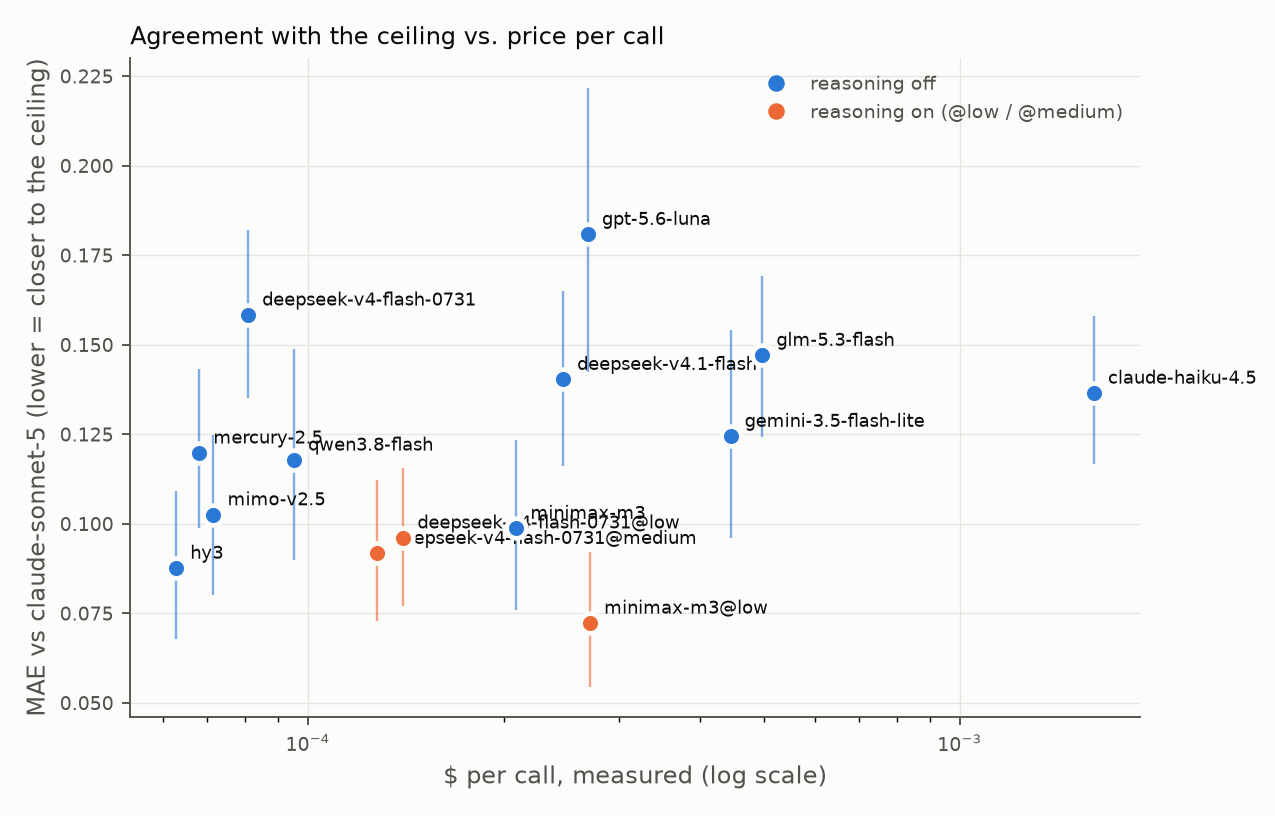
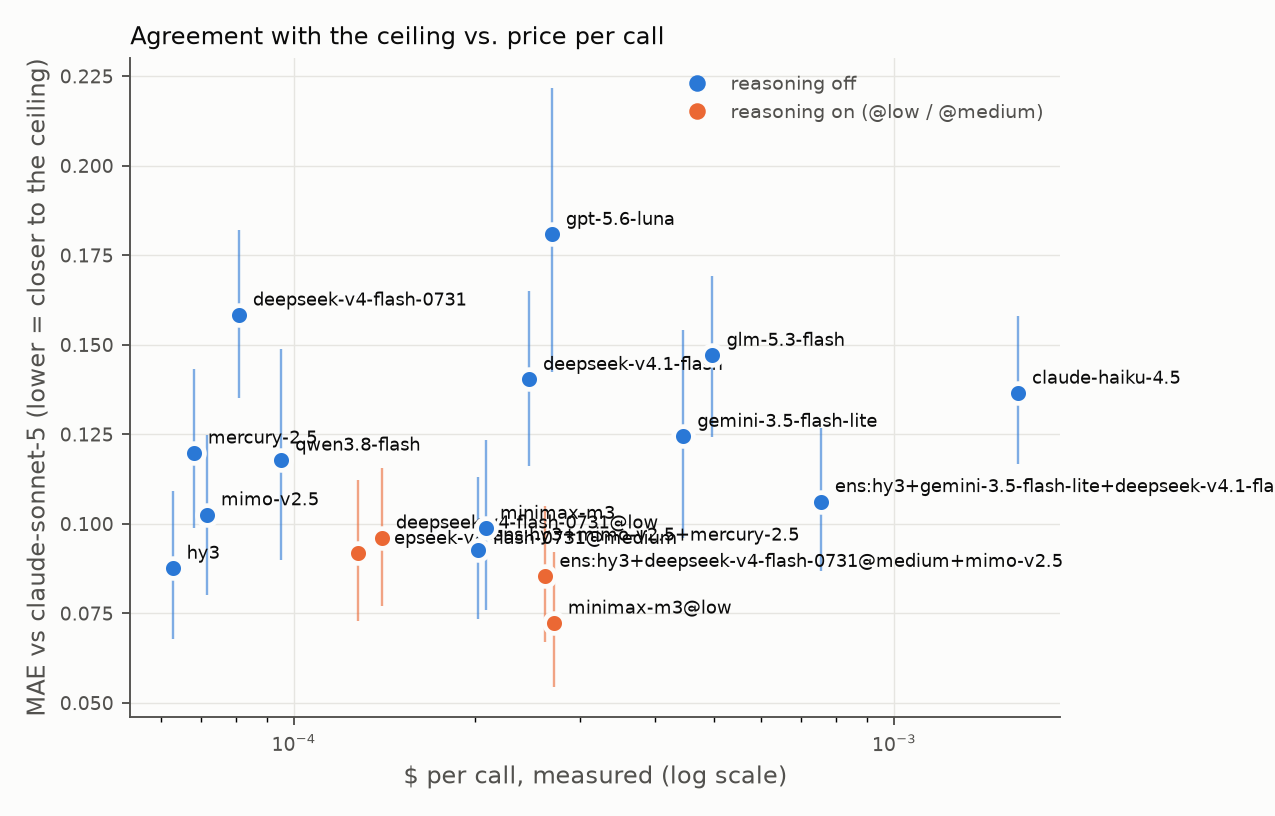
analysis: pre-registered median-of-3 ensemble rows as derived challengers
- ensembles.py: per preprint the median of three components' mean scores; cost
  summed, latency = slowest component, unscored wherever any component failed.
  Three combinations fixed by rule before scoring (best-MAE + steadiest + best
  top-10; three cheapest; three lowest-MAE from distinct labs); no search.
- analyze.py: derived flag in the CSV; derived rows never the paired-test
  reference; UNSCALED (baseline) keeps NaN MAE, ensembles keep theirs.
- report.py: derived labels italic, n/a wherever a value is NaN.
- README: Ensembles section with the post-hoc caveat; tables regenerated
  (ens hy3+gemini+deepseek-v4.1 matches 9/10 of the ceiling's top ten).

diff --git a/ensembles.py b/ensembles.py
@@ -1,0 +1,80 @@
+"""Synthetic ensemble rows: the median of k cheap models' scores, as a derived challenger.
+
+Compound judges are the thesis of frameworks like haizelabs/verdict ("instead of a single LLM
+call ... aggregation"). Here the cheapest version: per preprint, the median of each component's
+mean score; cost is the components' summed cost, latency the slowest component, and the row is
+unscored wherever any component failed (all-or-nothing coverage). Only the pre-registered
+combinations below are reported. They were chosen by the rules in the comments BEFORE any
+ensemble was scored; there was no search over combinations, because a search over the same 90
+preprints the table is scored on would be optimistic by construction.
+"""
+
+from __future__ import annotations
+
+import statistics as st
+from collections import defaultdict
+
+ENSEMBLES = [
+    # best MAE + steadiest sigma + best top-10 among usable single models
+    ("tencent/hy3", "google/gemini-3.5-flash-lite", "deepseek/deepseek-v4.1-flash"),
+    # the three cheapest usable models by $/call
+    ("tencent/hy3", "xiaomi/mimo-v2.5", "inception/mercury-2.5"),
+    # the three lowest-MAE usable models from three different labs
+    ("tencent/hy3", "deepseek/deepseek-v4-flash-0731@medium", "xiaomi/mimo-v2.5"),
+]
+
+
+def label(components: tuple[str, ...]) -> str:
+    return "ens:" + "+".join(c.split("/", 1)[-1] for c in components)
+
+
+def _per_item(rows: list[dict], components: tuple[str, ...]) -> tuple[dict, dict]:
+    """({doi: {label: {"score": mean | None, "cost": mean, "latency": mean}}}, {doi: meta})."""
+    runs: dict = defaultdict(lambda: defaultdict(list))
+    meta = {}
+    for r in rows:
+        if r["label"] in components:
+            runs[r["doi"]][r["label"]].append(r)
+            meta[r["doi"]] = {k: r.get(k) for k in ("lane", "title", "category")}
+    stats = {}
+    for doi, by_label in runs.items():
+        stats[doi] = {}
+        for lab, rs in by_label.items():
+            scores = [x["fit_score"] for x in rs if x.get("fit_score") is not None]
+            stats[doi][lab] = {
+                "score": st.mean(scores) if scores else None,
+                "cost": st.mean(x.get("cost_usd") or 0.0 for x in rs),
+                "latency": st.mean(x.get("latency_s") or 0.0 for x in rs),
+            }
+    return stats, meta
+
+
+def _row(doi: str, parts: list[dict], components: tuple[str, ...]) -> dict:
+    scores = [p["score"] for p in parts]
+    score = st.median(scores) if all(s is not None for s in scores) else None
+    return {
+        "label": label(components),
+        "doi": doi,
+        "run_idx": 0,
+        "fit_score": score,
+        "cost_usd": sum(p["cost"] for p in parts),
+        "latency_s": max(p["latency"] for p in parts),
+        "strict_json": score is not None,
+    }
+
+
+def rows(rows: list[dict], components: tuple[str, ...]) -> list[dict]:
+    """One synthetic call per preprint that every component saw."""
+    stats, meta = _per_item(rows, components)
+    out = []
+    for doi, by_label in stats.items():
+        parts = [by_label[c] for c in components if c in by_label]
+        if len(parts) == len(components):
+            out.append({**_row(doi, parts, components), **meta[doi]})
+    return out
+
+
+def all_rows(rows_in: list[dict]) -> list[dict]:
+    """Rows for every pre-registered ensemble whose components all appear in the data."""
+    present = {r["label"] for r in rows_in}
+    return [r for combo in ENSEMBLES if set(combo) <= present for r in rows(rows_in, combo)]

diff --git a/analyze.py b/analyze.py
@@ -16,6 +16,7 @@ Metrics, per model config:
               distribution can hide from MAE.
   latency_s   mean wall-clock seconds per call
   cost_usd    mean OpenRouter-reported cost per call that returned
+  derived     True for rows computed from other rows (baseline:, ens:), never the reference
 
 --top-disagreement N also writes results/disagreement.md (see disagreement.py).
 """
@@ -48,11 +49,13 @@ COLUMNS = (
     "latency_s",
     "cost_usd",
     "n_calls",
+    "derived",
 )
 VIOLATION_AT = 0.5
 SHORTLIST = 10
 USABLE_COV = 99.0
 DERIVED = ("baseline:", "ens:")  # rows computed from other rows, not API calls
+UNSCALED = ("baseline:",)  # not a fit score: MAE against the ceiling is meaningless
 
 
 def load_rows(results: Path, preprints: Path) -> list[dict]:
@@ -112,9 +115,9 @@ def _one(by_item: dict, ceiling_means: dict) -> dict:
 
 
 def best_usable(m: dict, ceiling: str) -> str:
-    """Reference for the paired test: lowest MAE among non-ceiling labels at >= USABLE_COV
-    coverage; falls back to the lowest MAE overall, then to the ceiling itself."""
-    cands = [k for k, r in m.items() if k != ceiling and not math.isnan(r["mae"])]
+    """Reference for the paired test: lowest MAE among single (non-derived, non-ceiling) models
+    at >= USABLE_COV coverage; falls back to the lowest MAE overall, then to the ceiling."""
+    cands = [k for k, r in m.items() if k != ceiling and not (math.isnan(r["mae"]) or r["derived"])]
     usable = [k for k in cands if m[k]["cov"] >= USABLE_COV] or cands or [ceiling]
     return min(usable, key=lambda k: m[k]["mae"])
 
@@ -126,8 +129,10 @@ def metrics(rows: list[dict], ceiling: str = CEILING) -> dict[str, dict]:
         by_label[r["label"]][r["doi"]].append(r)
     ceiling_means = _item_means(by_label[ceiling])
     m = {label: _one(items, ceiling_means) for label, items in by_label.items()}
-    for k in [k for k in m if k.startswith(DERIVED)]:  # different scale: MAE is not comparable
-        m[k].update(mae=math.nan, mae_lo=math.nan, mae_hi=math.nan)
+    for k, r in m.items():
+        r["derived"] = k.startswith(DERIVED)
+        if k.startswith(UNSCALED):
+            r.update(mae=math.nan, mae_lo=math.nan, mae_hi=math.nan)
     ref = m[best_usable(m, ceiling)]["_errs"]
     for r in m.values():
         r["mae_diff_p"] = bootstrap.diff_p(r.pop("_errs"), ref)
@@ -148,11 +153,13 @@ def _args() -> argparse.Namespace:
 def main() -> None:  # pragma: no cover
     import baseline
     import disagreement
+    import ensembles
     import figures
     import report
 
     a = _args()
     rows = load_rows(a.results, a.preprints) + baseline.rows(a.preprints, a.profile)
+    rows += ensembles.all_rows(rows)
     m = metrics(rows, a.ceiling)
     report.write_tables(m, a.out)
     figures.plot_all(m, a.out, a.ceiling)

diff --git a/tests/test_ensembles.py b/tests/test_ensembles.py
@@ -1,0 +1,75 @@
+"""Pins the ensemble rows: median of component means, summed cost, max latency, all-or-nothing."""
+
+import pytest
+
+import analyze
+import ensembles
+import report
+
+CEILING = "ceil"
+COMBO = ("lab/a", "lab/b", "lab/c@low")
+
+
+def _row(label, doi, run, score, cost, lat):
+    return {
+        "label": label,
+        "doi": doi,
+        "run_idx": run,
+        "fit_score": score,
+        "cost_usd": cost,
+        "latency_s": lat,
+        "lane": "in",
+        "title": f"T{doi}",
+        "category": "genomics",
+    }
+
+
+def _rows():
+    return [
+        _row(CEILING, "x", 0, 0.5, 0.01, 1.0),
+        _row(CEILING, "y", 0, 0.9, 0.01, 1.0),
+        # item x: component means 0.2, 0.6, 0.9 -> median 0.6; costs 1e-4 + 2e-4 + 3e-4
+        _row("lab/a", "x", 0, 0.1, 1e-4, 1.0),
+        _row("lab/a", "x", 1, 0.3, 1e-4, 3.0),
+        _row("lab/b", "x", 0, 0.6, 2e-4, 2.0),
+        _row("lab/c@low", "x", 0, 0.9, 3e-4, 5.0),
+        # item y: lab/b never scored -> the ensemble has no score either
+        _row("lab/a", "y", 0, 0.8, 1e-4, 1.0),
+        _row("lab/b", "y", 0, None, 2e-4, 9.0),
+        _row("lab/c@low", "y", 0, 0.7, 3e-4, 1.0),
+    ]
+
+
+def test_label_uses_short_names():
+    assert ensembles.label(COMBO) == "ens:a+b+c@low"
+
+
+def test_rows_take_median_sum_cost_and_max_latency():
+    out = {r["doi"]: r for r in ensembles.rows(_rows(), COMBO)}
+    x, y = out["x"], out["y"]
+    assert x["label"] == "ens:a+b+c@low" and x["lane"] == "in" and x["title"] == "Tx"
+    assert x["fit_score"] == pytest.approx(0.6)
+    assert x["cost_usd"] == pytest.approx(6e-4)
+    assert x["latency_s"] == 5.0  # max over components of their per-item mean (lab/a = 2.0)
+    assert y["fit_score"] is None and y["cost_usd"] == pytest.approx(6e-4)
+
+
+def test_all_rows_skips_combos_with_missing_components(monkeypatch):
+    monkeypatch.setattr(ensembles, "ENSEMBLES", [COMBO, ("lab/a", "nope/z", "lab/b")])
+    out = ensembles.all_rows(_rows())
+    assert {r["label"] for r in out} == {"ens:a+b+c@low"} and len(out) == 2
+
+
+def test_metrics_flag_derived_and_never_pick_it_as_reference(tmp_path, monkeypatch):
+    monkeypatch.setattr(ensembles, "ENSEMBLES", [COMBO])
+    rows = _rows()
+    rows += ensembles.all_rows(rows)
+    m = analyze.metrics(rows, CEILING)
+    e = m["ens:a+b+c@low"]
+    assert e["derived"] is True and m["lab/a"]["derived"] is False
+    assert e["cov"] == 50.0 and e["mae"] == pytest.approx(0.1)  # |0.6 - 0.5| on the one item
+    assert analyze.best_usable(m, CEILING) != "ens:a+b+c@low"
+    report.write_tables(m, tmp_path)
+    assert ",derived" in (tmp_path / "results.csv").read_text().splitlines()[0]
+    md = (tmp_path / "results.md").read_text()
+    assert "| _ens:a+b+c@low_ |" in md and "| lab/a |" in md

diff --git a/report.py b/report.py
@@ -8,7 +8,7 @@ import statistics as st
 from collections import defaultdict
 from pathlib import Path
 
-from analyze import COLUMNS, DERIVED, SHORTLIST, VIOLATION_AT
+from analyze import COLUMNS, SHORTLIST, VIOLATION_AT
 
 MARK_START, MARK_END = "<!-- RESULTS:START -->", "<!-- RESULTS:END -->"
 
@@ -27,8 +27,8 @@ def _num(v: float, fmt: str) -> str:
     return "n/a" if math.isnan(v) else format(v, fmt)
 
 
-def _mae_cell(k: str, r: dict) -> str:
-    if k.startswith(DERIVED):
+def _mae_cell(r: dict) -> str:
+    if math.isnan(r["mae"]):
         return "n/a | n/a"
     return f"{r['mae']:.3f} [{r['mae_lo']:.3f}, {r['mae_hi']:.3f}] | {r['mae_diff_p']:.2f}"
 
@@ -41,8 +41,9 @@ def write_md(m: dict, path: Path) -> None:
     ]
     for k, r in m.items():
         md.append(
-            f"| {k} | {r['cov']:.1f} | {r['strict']:.1f} | {r['violations']} "
-            f"| {_num(r['sigma'], '.3f')} | {_mae_cell(k, r)} | {r['spearman']:.2f} "
+            f"| {f'_{k}_' if r['derived'] else k} | {r['cov']:.1f} | {r['strict']:.1f} "
+            f"| {r['violations']} | {_num(r['sigma'], '.3f')} | {_mae_cell(r)} "
+            f"| {r['spearman']:.2f} "
             f"| {r['top10']}/{SHORTLIST} | {r['latency_s']:.2f} | {r['cost_usd']:.5f} |"
         )
     path.write_text("\n".join(md) + "\n")

diff --git a/results/disagreement.md b/results/disagreement.md
@@ -1,33 +1,33 @@
-# Where the 13 usable models disagree
+# Where the 16 usable models disagree
 
-Population std dev of the per-model mean score, over the 13 usable models (>= 99% coverage, ceiling excluded). `ceiling` is the ceiling's own mean.
+Population std dev of the per-model mean score, over the 16 usable models (>= 99% coverage, ceiling excluded). `ceiling` is the ceiling's own mean.
 
 ## Top 10 most disputed
 
 | # | sd | ceiling | min (model) | max (model) | category / lane | title | doi |
 |--:|--:|--:|---|---|---|---|---|
-| 1 | 0.228 | 0.10 | 0.07 (tencent/hy3) | 1.00 (baseline:tfidf) | plant biology / off | Barley genetic architecture conditionally impacts recruitment of rhizosphere microorganisms and crop performance has been submitted | 10.1101/2024.11.21.624704 |
-| 2 | 0.194 | 0.63 | 0.22 (tencent/hy3) | 0.93 (openai/gpt-5.6-luna) | genomics / in | Haplotype-Resolved Long-Read Sequencing in Hundreds of Diverse Brains Identifies Structural Variant Impacts on Expression and Allele-Specific Methylation | 10.1101/2024.12.16.628723 |
-| 3 | 0.177 | 0.43 | 0.27 (deepseek/deepseek-v4-flash-0731@medium) | 0.87 (openai/gpt-5.6-luna) | genomics / in | Telomere-to-Telomere Accurate and Gapless Korean Standard Reference Genome | 10.1101/2025.11.17.688257 |
-| 4 | 0.172 | 0.62 | 0.23 (baseline:tfidf) | 0.91 (openai/gpt-5.6-luna) | microbiology / in | The Updateable Human Virome Database and toolkit: A novel framework for human virome analysis | 10.64898/2026.05.01.722327 |
-| 5 | 0.171 | 0.15 | 0.12 (baseline:tfidf) | 0.71 (google/gemini-3.5-flash-lite) | genomics / in | Mapping the Phenotypic Landscape of Beta-lactam Resistance in Streptococcus pneumoniae | 10.1101/2025.09.12.675231 |
-| 6 | 0.169 | 0.25 | 0.25 (tencent/hy3) | 0.84 (openai/gpt-5.6-luna) | genomics / in | Spatial mapping of cellular and molecular plasticity in the maternal and postpartum mouse brain | 10.64898/2026.01.03.697464 |
-| 7 | 0.169 | 0.27 | 0.28 (inception/mercury-2.5) | 0.88 (openai/gpt-5.6-luna) | systems biology / in | Analytical resolution governs cross-laboratory and cross-species concordance in murine cardiometabolic HFpEF transcriptomics | 10.64898/2026.04.30.721824 |
-| 8 | 0.167 | 0.25 | 0.22 (baseline:tfidf) | 0.80 (google/gemini-3.5-flash-lite) | systems biology / in | Improved inference of multiscale sequence statistics in generative protein models | 10.64898/2026.04.06.716859 |
-| 9 | 0.166 | 0.37 | 0.17 (deepseek/deepseek-v4-flash-0731@low) | 0.82 (google/gemini-3.5-flash-lite) | genomics / in | Genetic association data are broadly consistent with stabilizing selection shaping human common diseases and traits | 10.1101/2024.06.19.599789 |
-| 10 | 0.163 | 0.10 | 0.13 (google/gemini-3.5-flash-lite) | 0.75 (qwen/qwen3.8-flash) | bioinformatics / in | Real-time repository-scale spectral search and global molecular networking with HNSW-MS | 10.64898/2026.06.02.729602 |
+| 1 | 0.211 | 0.10 | 0.07 (tencent/hy3) | 1.00 (baseline:tfidf) | plant biology / off | Barley genetic architecture conditionally impacts recruitment of rhizosphere microorganisms and crop performance has bee | 10.1101/2024.11.21.624704 |
+| 2 | 0.195 | 0.63 | 0.22 (tencent/hy3) | 0.93 (openai/gpt-5.6-luna) | genomics / in | Haplotype-Resolved Long-Read Sequencing in Hundreds of Diverse Brains Identifies Structural Variant Impacts on Expressio | 10.1101/2024.12.16.628723 |
+| 3 | 0.168 | 0.43 | 0.27 (deepseek/deepseek-v4-flash-0731@medium) | 0.87 (openai/gpt-5.6-luna) | genomics / in | Telomere-to-Telomere Accurate and Gapless Korean Standard Reference Genome | 10.1101/2025.11.17.688257 |
+| 4 | 0.162 | 0.25 | 0.25 (tencent/hy3) | 0.84 (openai/gpt-5.6-luna) | genomics / in | Spatial mapping of cellular and molecular plasticity in the maternal and postpartum mouse brain | 10.64898/2026.01.03.697464 |
+| 5 | 0.161 | 0.27 | 0.28 (inception/mercury-2.5) | 0.88 (openai/gpt-5.6-luna) | systems biology / in | Analytical resolution governs cross-laboratory and cross-species concordance in murine cardiometabolic HFpEF transcripto | 10.64898/2026.04.30.721824 |
+| 6 | 0.159 | 0.62 | 0.23 (baseline:tfidf) | 0.91 (openai/gpt-5.6-luna) | microbiology / in | The Updateable Human Virome Database and toolkit: A novel framework for human virome analysis | 10.64898/2026.05.01.722327 |
+| 7 | 0.157 | 0.10 | 0.13 (google/gemini-3.5-flash-lite) | 0.75 (qwen/qwen3.8-flash) | bioinformatics / in | Real-time repository-scale spectral search and global molecular networking with HNSW-MS | 10.64898/2026.06.02.729602 |
+| 8 | 0.155 | 0.15 | 0.12 (baseline:tfidf) | 0.71 (google/gemini-3.5-flash-lite) | genomics / in | Mapping the Phenotypic Landscape of Beta-lactam Resistance in Streptococcus pneumoniae | 10.1101/2025.09.12.675231 |
+| 9 | 0.153 | 0.25 | 0.22 (baseline:tfidf) | 0.80 (google/gemini-3.5-flash-lite) | systems biology / in | Improved inference of multiscale sequence statistics in generative protein models | 10.64898/2026.04.06.716859 |
+| 10 | 0.153 | 0.37 | 0.17 (deepseek/deepseek-v4-flash-0731@low) | 0.82 (google/gemini-3.5-flash-lite) | genomics / in | Genetic association data are broadly consistent with stabilizing selection shaping human common diseases and traits | 10.1101/2024.06.19.599789 |
 
 ## Top 10 most agreed
 
 | # | sd | ceiling | min (model) | max (model) | category / lane | title | doi |
 |--:|--:|--:|---|---|---|---|---|
-| 1 | 0.017 | 0.02 | 0.00 (deepseek/deepseek-v4-flash-0731@medium) | 0.05 (inception/mercury-2.5) | paleontology / off | Garamaudo bauciensis, a new freshwater Mosasauridae (Reptilia, Squamata) from the Santonian (Late Cretaceous) of Provence, southeastern France | 10.64898/2025.12.11.693649 |
-| 2 | 0.029 | 0.03 | 0.00 (baseline:tfidf) | 0.10 (inception/mercury-2.5) | animal behavior and cognition / off | Spectrograms of kent sounds from seven Ivory-billed Woodpecker expeditions show 587 Hertz as a pattern | 10.1101/2024.05.07.592969 |
-| 3 | 0.032 | 0.03 | 0.00 (google/gemini-3.5-flash-lite) | 0.11 (baseline:tfidf) | zoology / off | A Characterisation of the Invasive Lema Beetle, Lema equestris (Coleoptera: Chrysomelidae), in Hawaii | 10.64898/2026.04.28.721477 |
-| 4 | 0.035 | 0.03 | 0.00 (google/gemini-3.5-flash-lite) | 0.10 (inception/mercury-2.5) | animal behavior and cognition / off | Shifting sensitivity and signal-dependent timing in the copulatory displays of songbirds | 10.1101/2021.05.19.444794 |
-| 5 | 0.036 | 0.04 | 0.00 (tencent/hy3) | 0.15 (anthropic/claude-haiku-4.5) | systems biology / in | Diurnal rhythmicity in metabolism and salivary effector expression shapes aphid performance on host plants | 10.1101/2024.01.20.576473 |
-| 6 | 0.037 | 0.04 | 0.00 (google/gemini-3.5-flash-lite) | 0.13 (baseline:tfidf) | animal behavior and cognition / off | Reward quantity discrimination in an associative learning task in wild zebrafish (Danio rerio) | 10.1101/2022.03.17.484678 |
-| 7 | 0.037 | 0.03 | 0.00 (google/gemini-3.5-flash-lite) | 0.12 (deepseek/deepseek-v4-flash-0731@low) | zoology / off | The impact of temperature-induced vertebral anomalies on C-start swimming performance in Astyanax mexicanus (Teleostei: Characidae) | 10.64898/2026.08.06.743195 |
-| 8 | 0.039 | n/a | 0.05 (xiaomi/mimo-v2.5) | 0.18 (baseline:tfidf) | microbiology / in | Field-isolate recombinant tick-borne encephalitis viruses define reporter-stability guidelines for antiviral testing in flaviviruses | 10.64898/2026.02.23.707037 |
-| 9 | 0.039 | 0.03 | 0.00 (google/gemini-3.5-flash-lite) | 0.15 (anthropic/claude-haiku-4.5) | animal behavior and cognition / off | Serotonin signaling in the rat prefrontal cortex is required for Retrieval-Induced Forgetting | 10.1101/2025.03.05.641624 |
-| 10 | 0.041 | 0.05 | 0.07 (tencent/hy3) | 0.20 (z-ai/glm-5.3-flash) | bioinformatics / in | Generative Chemistry Platform for Small Molecules Targeting RNA: A Case Study for Chemical Optimization | 10.64898/2026.05.08.723908 |
+| 1 | 0.017 | 0.02 | 0.00 (deepseek/deepseek-v4-flash-0731@medium) | 0.05 (inception/mercury-2.5) | paleontology / off | Garamaudo bauciensis, a new freshwater Mosasauridae (Reptilia, Squamata) from the Santonian (Late Cretaceous) of Provenc | 10.64898/2025.12.11.693649 |
+| 2 | 0.028 | 0.03 | 0.00 (baseline:tfidf) | 0.10 (inception/mercury-2.5) | animal behavior and cognition / off | Spectrograms of kent sounds from seven Ivory-billed Woodpecker expeditions show 587 Hertz as a pattern | 10.1101/2024.05.07.592969 |
+| 3 | 0.029 | 0.03 | 0.00 (google/gemini-3.5-flash-lite) | 0.11 (baseline:tfidf) | zoology / off | A Characterisation of the Invasive Lema Beetle, Lema equestris (Coleoptera: Chrysomelidae), in Hawaii | 10.64898/2026.04.28.721477 |
+| 4 | 0.033 | 0.04 | 0.00 (tencent/hy3) | 0.15 (anthropic/claude-haiku-4.5) | systems biology / in | Diurnal rhythmicity in metabolism and salivary effector expression shapes aphid performance on host plants | 10.1101/2024.01.20.576473 |
+| 5 | 0.035 | 0.04 | 0.00 (ens:hy3+gemini-3.5-flash-lite+deepseek-v4.1-flash) | 0.13 (baseline:tfidf) | animal behavior and cognition / off | Reward quantity discrimination in an associative learning task in wild zebrafish (Danio rerio) | 10.1101/2022.03.17.484678 |
+| 6 | 0.037 | 0.03 | 0.00 (ens:hy3+deepseek-v4-flash-0731@medium+mimo-v2.5) | 0.10 (inception/mercury-2.5) | animal behavior and cognition / off | Shifting sensitivity and signal-dependent timing in the copulatory displays of songbirds | 10.1101/2021.05.19.444794 |
+| 7 | 0.038 | 0.03 | 0.03 (baseline:tfidf) | 0.19 (deepseek/deepseek-v4-flash-0731) | biophysics / off | Hierarchical Heterogeneities in Spatiotemporal Dynamics of the Cytoplasm | 10.1101/2025.05.08.652886 |
+| 8 | 0.038 | n/a | 0.05 (xiaomi/mimo-v2.5) | 0.18 (baseline:tfidf) | microbiology / in | Field-isolate recombinant tick-borne encephalitis viruses define reporter-stability guidelines for antiviral testing in  | 10.64898/2026.02.23.707037 |
+| 9 | 0.038 | 0.03 | 0.00 (ens:hy3+gemini-3.5-flash-lite+deepseek-v4.1-flash) | 0.15 (anthropic/claude-haiku-4.5) | animal behavior and cognition / off | Serotonin signaling in the rat prefrontal cortex is required for Retrieval-Induced Forgetting | 10.1101/2025.03.05.641624 |
+| 10 | 0.038 | 0.05 | 0.07 (tencent/hy3) | 0.20 (z-ai/glm-5.3-flash) | bioinformatics / in | Generative Chemistry Platform for Small Molecules Targeting RNA: A Case Study for Chemical Optimization | 10.64898/2026.05.08.723908 |

diff --git a/README.md b/README.md
@@ -22,6 +22,7 @@ harness.py           preprints x models x 3 repeats through OpenRouter JSON mode
 analyze.py           metrics table (results/results.md + .csv), bootstrap CIs, two figures, README sync
 disagreement.py      the preprints the usable models split on most -> results/disagreement.md
 baseline.py          zero-LLM control: tf-idf cosine(profile.md, title + abstract) as a derived row
+ensembles.py         median-of-3 cheap models as derived rows (pre-registered combos only)
 ```
 
 Metrics, per model config:
@@ -49,11 +50,14 @@ model configurations x 3 repeats = 4,050 calls, $2.19 measured, of which $1.06 w
 |---|---:|---:|---:|---:|---:|---:|---:|---:|---:|---:|
 | anthropic/claude-sonnet-5 | 94.4 | 97.3 | 0 | 0.011 | 0.000 [0.000, 0.000] | 1.00 | 1.00 | 10/10 | 3.25 | 0.00394 |
 | minimax/minimax-m3@low | 96.3 | 91.2 | 1 | 0.057 | 0.072 [0.054, 0.092] | 0.96 | 0.91 | 6/10 | 4.33 | 0.00027 |
+| _ens:hy3+deepseek-v4-flash-0731@medium+mimo-v2.5_ | 100.0 | 100.0 | 0 | n/a | 0.085 [0.067, 0.105] | 0.66 | 0.91 | 6/10 | 14.66 | 0.00026 |
 | tencent/hy3 | 100.0 | 100.0 | 0 | 0.033 | 0.088 [0.068, 0.109] | 1.00 | 0.89 | 5/10 | 4.22 | 0.00006 |
 | deepseek/deepseek-v4-flash-0731@medium | 99.6 | 100.0 | 1 | 0.047 | 0.092 [0.073, 0.112] | 0.35 | 0.90 | 6/10 | 13.89 | 0.00013 |
+| _ens:hy3+mimo-v2.5+mercury-2.5_ | 100.0 | 100.0 | 0 | n/a | 0.093 [0.074, 0.113] | 0.20 | 0.91 | 7/10 | 6.78 | 0.00020 |
 | deepseek/deepseek-v4-flash-0731@low | 100.0 | 100.0 | 1 | 0.058 | 0.096 [0.077, 0.116] | 0.19 | 0.89 | 6/10 | 16.77 | 0.00014 |
 | minimax/minimax-m3 | 97.0 | 100.0 | 1 | 0.054 | 0.099 [0.076, 0.123] | 0.16 | 0.92 | 8/10 | 2.46 | 0.00021 |
 | xiaomi/mimo-v2.5 | 100.0 | 100.0 | 2 | 0.065 | 0.103 [0.080, 0.125] | 0.06 | 0.88 | 6/10 | 5.55 | 0.00007 |
+| _ens:hy3+gemini-3.5-flash-lite+deepseek-v4.1-flash_ | 100.0 | 100.0 | 0 | n/a | 0.106 [0.087, 0.127] | 0.00 | 0.91 | 9/10 | 6.00 | 0.00075 |
 | qwen/qwen3.8-flash | 99.6 | 100.0 | 1 | 0.063 | 0.118 [0.090, 0.149] | 0.00 | 0.87 | 5/10 | 1.89 | 0.00010 |
 | inception/mercury-2.5 | 99.3 | 99.6 | 0 | 0.062 | 0.120 [0.099, 0.143] | 0.00 | 0.90 | 6/10 | 0.89 | 0.00007 |
 | google/gemini-3.5-flash-lite | 100.0 | 100.0 | 0 | 0.015 | 0.124 [0.096, 0.154] | 0.00 | 0.88 | 7/10 | 1.06 | 0.00044 |
@@ -62,7 +66,7 @@ model configurations x 3 repeats = 4,050 calls, $2.19 measured, of which $1.06 w
 | z-ai/glm-5.3-flash | 100.0 | 97.4 | 0 | 0.035 | 0.147 [0.124, 0.169] | 0.00 | 0.93 | 7/10 | 11.48 | 0.00050 |
 | deepseek/deepseek-v4-flash-0731 | 100.0 | 100.0 | 3 | 0.081 | 0.158 [0.135, 0.182] | 0.00 | 0.90 | 6/10 | 4.33 | 0.00008 |
 | openai/gpt-5.6-luna | 100.0 | 100.0 | 2 | 0.024 | 0.181 [0.143, 0.222] | 0.00 | 0.93 | 5/10 | 1.80 | 0.00027 |
-| baseline:tfidf | 100.0 | 100.0 | 2 | n/a | n/a | n/a | 0.56 | 4/10 | 0.00 | 0.00000 |
+| _baseline:tfidf_ | 100.0 | 100.0 | 2 | n/a | n/a | n/a | 0.56 | 4/10 | 0.00 | 0.00000 |
 
 Among configurations at >= 99% coverage, `tencent/hy3` has both the best agreement and the
 lowest price, so it is the reference for the `P(<= best)` column. Read that column before
@@ -94,6 +98,23 @@ on **top-10**. A model whose rho or top-10 does not clear the baseline is not ad
 tf-idf would not have. Not tried: sentence-embedding cosine, which would need a dependency this
 repo does not have; the "corpus" variant (cosine to the abstracts of past picks instead of the
 profile) is the obvious next control.
+
+## Ensembles
+
+Compound judges are the thesis of frameworks like [Verdict](https://github.com/haizelabs/verdict):
+instead of one call, aggregate several. The `ens:` rows are the cheapest version of that idea,
+computed from scores already in `data/results.jsonl`: per preprint, the **median** of three
+models' mean scores. Cost is the three costs summed, latency the slowest of the three, and the
+row is unscored wherever any component failed, so its coverage is all-or-nothing. They are
+italic in the table and carry `derived = True` in the CSV; the `P(<= best)` reference is
+always a single model.
+
+Three combinations are reported, chosen by rule before any ensemble was scored: the best-MAE,
+steadiest-sigma and best-top-10 usable models together; the three cheapest usable models; and
+the three lowest-MAE usable models from three different labs. There was deliberately no search
+over combinations. Picking the best of many ensembles on the same 90 preprints the table is
+scored on would be optimistic by construction, and even these three are post-hoc in the sense
+that the components were chosen from this table.
 
 ## Where the models disagree
 

diff --git a/results/results.md b/results/results.md
@@ -2,11 +2,14 @@
 |---|---:|---:|---:|---:|---:|---:|---:|---:|---:|---:|
 | anthropic/claude-sonnet-5 | 94.4 | 97.3 | 0 | 0.011 | 0.000 [0.000, 0.000] | 1.00 | 1.00 | 10/10 | 3.25 | 0.00394 |
 | minimax/minimax-m3@low | 96.3 | 91.2 | 1 | 0.057 | 0.072 [0.054, 0.092] | 0.96 | 0.91 | 6/10 | 4.33 | 0.00027 |
+| _ens:hy3+deepseek-v4-flash-0731@medium+mimo-v2.5_ | 100.0 | 100.0 | 0 | n/a | 0.085 [0.067, 0.105] | 0.66 | 0.91 | 6/10 | 14.66 | 0.00026 |
 | tencent/hy3 | 100.0 | 100.0 | 0 | 0.033 | 0.088 [0.068, 0.109] | 1.00 | 0.89 | 5/10 | 4.22 | 0.00006 |
 | deepseek/deepseek-v4-flash-0731@medium | 99.6 | 100.0 | 1 | 0.047 | 0.092 [0.073, 0.112] | 0.35 | 0.90 | 6/10 | 13.89 | 0.00013 |
+| _ens:hy3+mimo-v2.5+mercury-2.5_ | 100.0 | 100.0 | 0 | n/a | 0.093 [0.074, 0.113] | 0.20 | 0.91 | 7/10 | 6.78 | 0.00020 |
 | deepseek/deepseek-v4-flash-0731@low | 100.0 | 100.0 | 1 | 0.058 | 0.096 [0.077, 0.116] | 0.19 | 0.89 | 6/10 | 16.77 | 0.00014 |
 | minimax/minimax-m3 | 97.0 | 100.0 | 1 | 0.054 | 0.099 [0.076, 0.123] | 0.16 | 0.92 | 8/10 | 2.46 | 0.00021 |
 | xiaomi/mimo-v2.5 | 100.0 | 100.0 | 2 | 0.065 | 0.103 [0.080, 0.125] | 0.06 | 0.88 | 6/10 | 5.55 | 0.00007 |
+| _ens:hy3+gemini-3.5-flash-lite+deepseek-v4.1-flash_ | 100.0 | 100.0 | 0 | n/a | 0.106 [0.087, 0.127] | 0.00 | 0.91 | 9/10 | 6.00 | 0.00075 |
 | qwen/qwen3.8-flash | 99.6 | 100.0 | 1 | 0.063 | 0.118 [0.090, 0.149] | 0.00 | 0.87 | 5/10 | 1.89 | 0.00010 |
 | inception/mercury-2.5 | 99.3 | 99.6 | 0 | 0.062 | 0.120 [0.099, 0.143] | 0.00 | 0.90 | 6/10 | 0.89 | 0.00007 |
 | google/gemini-3.5-flash-lite | 100.0 | 100.0 | 0 | 0.015 | 0.124 [0.096, 0.154] | 0.00 | 0.88 | 7/10 | 1.06 | 0.00044 |
@@ -15,4 +18,4 @@
 | z-ai/glm-5.3-flash | 100.0 | 97.4 | 0 | 0.035 | 0.147 [0.124, 0.169] | 0.00 | 0.93 | 7/10 | 11.48 | 0.00050 |
 | deepseek/deepseek-v4-flash-0731 | 100.0 | 100.0 | 3 | 0.081 | 0.158 [0.135, 0.182] | 0.00 | 0.90 | 6/10 | 4.33 | 0.00008 |
 | openai/gpt-5.6-luna | 100.0 | 100.0 | 2 | 0.024 | 0.181 [0.143, 0.222] | 0.00 | 0.93 | 5/10 | 1.80 | 0.00027 |
-| baseline:tfidf | 100.0 | 100.0 | 2 | n/a | n/a | n/a | 0.56 | 4/10 | 0.00 | 0.00000 |
+| _baseline:tfidf_ | 100.0 | 100.0 | 2 | n/a | n/a | n/a | 0.56 | 4/10 | 0.00 | 0.00000 |
